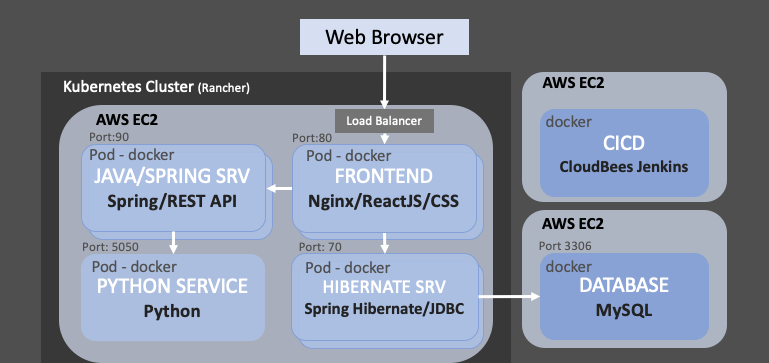
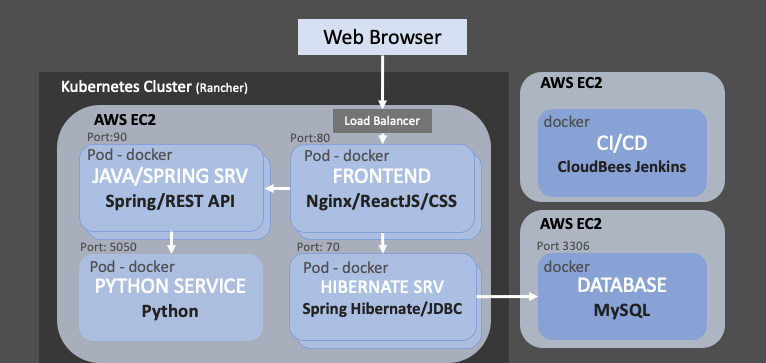
update architecture diagram

diff --git a/bp-main/index.html b/bp-main/index.html
@@ -75,7 +75,7 @@
             <br>
             <img class="hidden-xs hidden-sm hidden-md" src="img/arrow2.png">
             <h5>Micro Services</h5>
-            <p>Docker, REST API, Python, ReactJS</p>
+            <p>Docker, REST API, Python, ReactJS, CI/CD, Jenkins, Groovy</p>
           </div>
         </div>
       </div>
@@ -101,7 +101,7 @@
           </div>
           <div class="col-lg-4">
             <a href="http://3.17.220.167:80/microservice/" target="_blank"><img src="img/cloudbees-jenkins.png" width="200"  alt=""></a>
-            <h3>CICD</h3>
+            <h3>CI/CD</h3>
             <p><b><a href="http://18.188.208.20:8080/" target="_blank">http://18.188.208.20:8080/</a></b></p>
           </div>
         </div>
